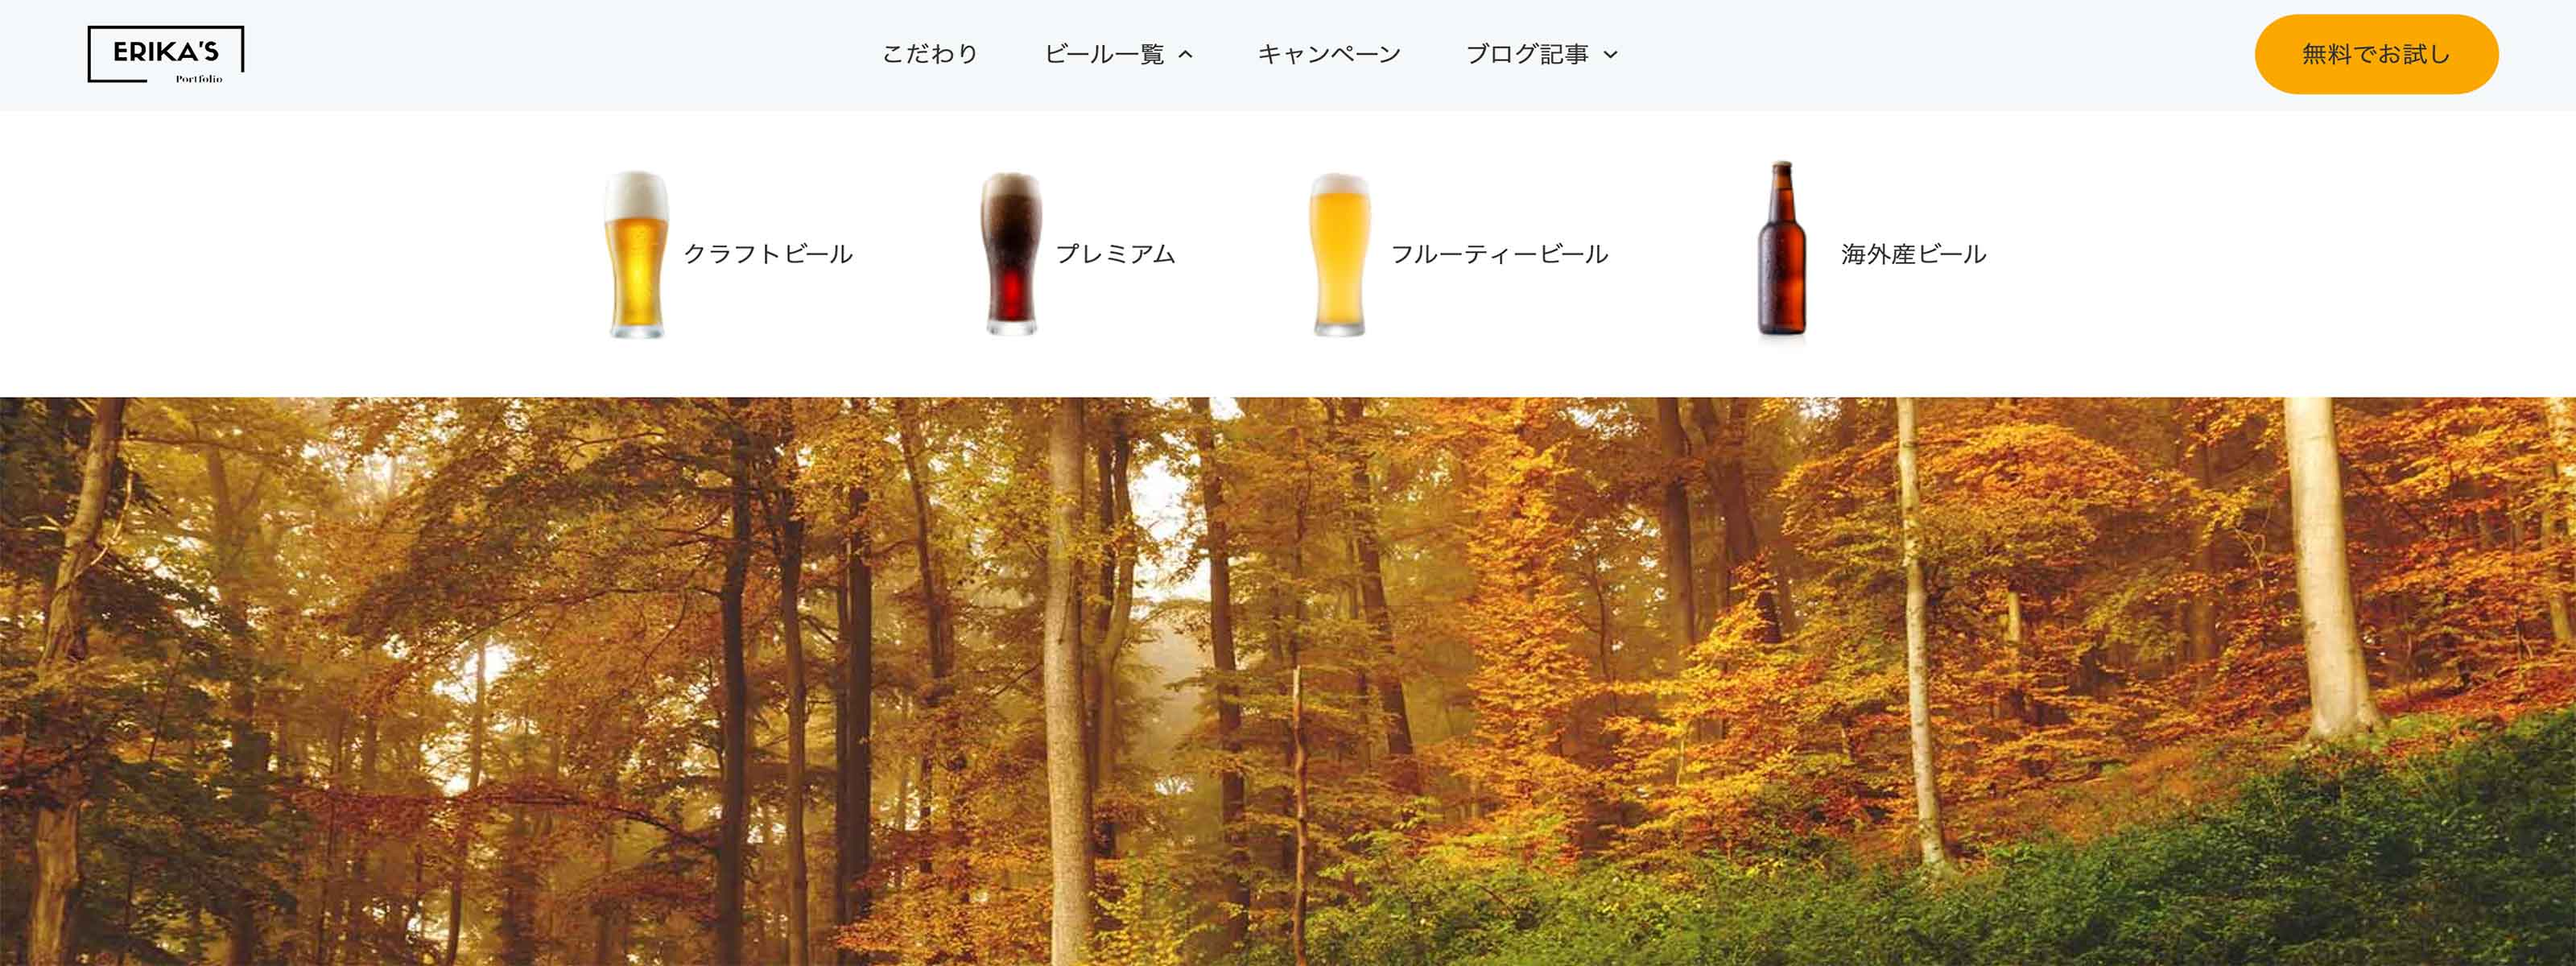
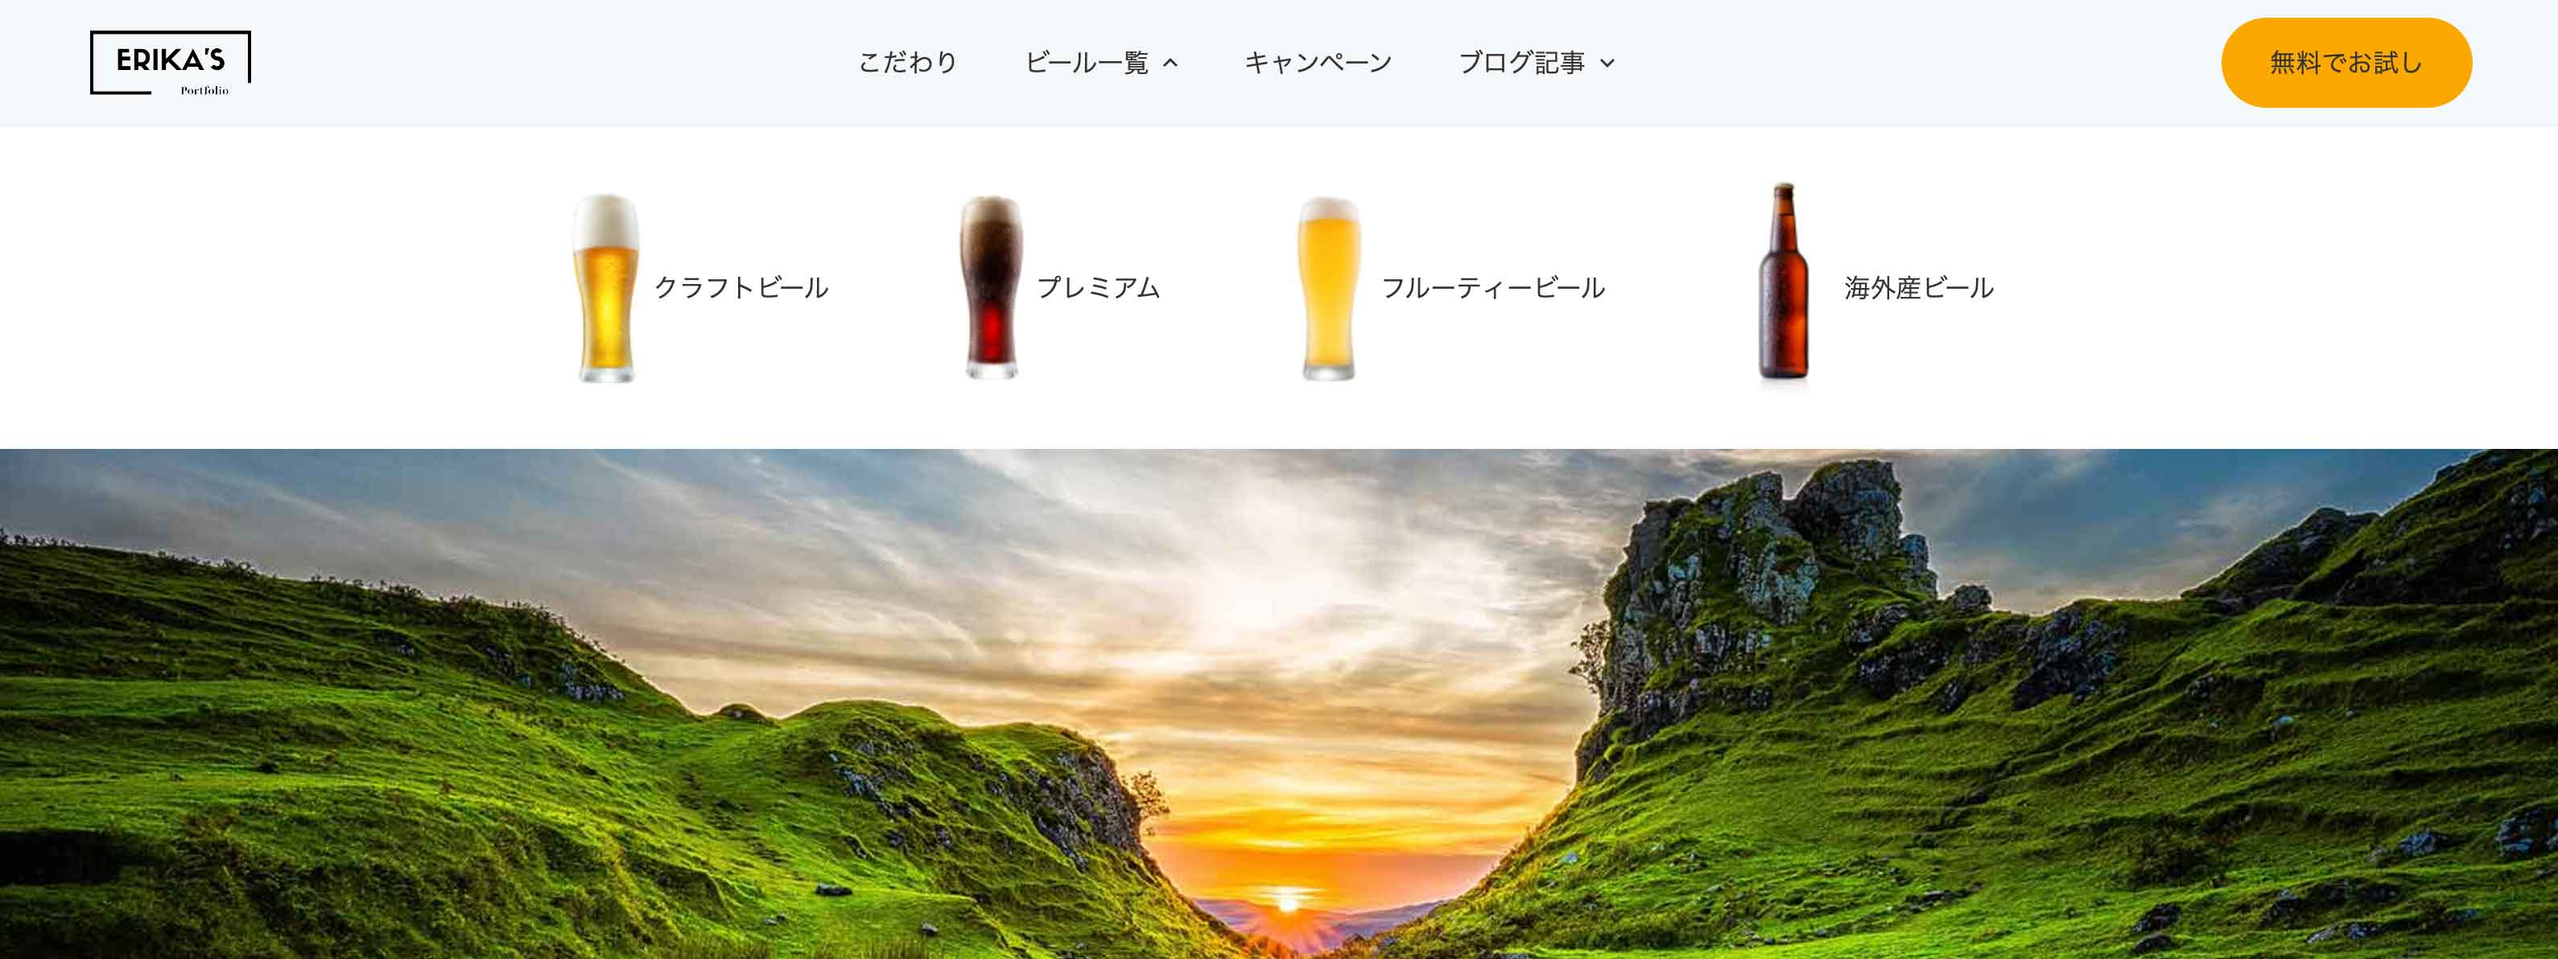
アップデート

diff --git a/header-4.html b/header-4.html
@@ -49,7 +49,7 @@
       <ul>
         <li><a href="#" target="blank" class="pc-nav-x-link"><img src="./img/project/logo-black.png" alt="Twitter"></a></li>
         <li><a href="#" target="_blank"><img src="./img/project/LINE.png" alt="LINE"></a></li>
-        <li class="pc-nav-button"><a class="button-donation" href="#">寄付のお願い</a></li>
+        <li class="pc-nav-button"><a class="button-donation" href="#">ログイン</a></li>
         <li class="pc-nav-button pc-nav-button-second"><a class="button-contact" href="#">お問い合わせ</a></li>
         <li class="hamburger-menu" id="js-hamburger">
           <span class="menu_top"></span>
@@ -62,17 +62,17 @@
 
   <div class="hamburger-menu-cont">
     <ul>
-      <li><a href="#">テキストホームとは</a></li>
-      <li><a href="#">テキストホーム一覧</a></li>
-      <li><a href="#">ホームでのお仕事</a></li>
-      <li><a href="#">ホームでの生活</a></li>
-      <li><a href="#">協議会について</a></li>
+      <li><a href="#">リサイクル会館</a></li>
+      <li><a href="#">リサイクル会館一覧</a></li>
+      <li><a href="#">会館でのお仕事</a></li>
+      <li><a href="#">エコな生活</a></li>
+      <li><a href="#">SDGsについて</a></li>
       <li><a href="#">会員専用ページ</a></li>
     </ul>
 
     <div class="hamburger-menu-cont-bottom">
       <div class="button">
-        <a href="#" class="button-donation">寄付のお願い</a>
+        <a href="#" class="button-donation">ログイン</a>
         <a href="#" class="button-contact">お問い合わせ</a>
       </div>
 
@@ -99,10 +99,10 @@
 <body>
 <div class="fv-wrapper fv-wrapper-one">
   <div class="fv-container">
-    <img src="./img/parts-header-01.jpg" alt="ファーストビュー画像">
+    <img src="./img/parts-header-04.jpg" alt="ファーストビュー画像">
   </div>
 </div>
-<main>
+<main class="header4-main">
   <section id="sec1" class="sec_wrapper">
     <div class="sec_container">
       <div class="secTitle-container">
@@ -240,11 +240,12 @@
   <div class="footer-container">
     <nav class="footer_nav">
       <ul class="footer-nav-list flex">
-        <li class="footer_nav-item"><a href="#">お知らせ</a></li>
-        <li class="footer_nav-item"><a href="#">サービス内容</a></li>
-        <li class="footer_nav-item"><a href="#">料金</a></li>
-        <li class="footer_nav-item"><a href="#">私たちについて</a></li>
-        <li class="footer_nav-item"><a href="#">お問い合わせ</a></li>
+        <li class="footer_nav-item"><a href="#">リサイクル会館</a></li>
+        <li class="footer_nav-item"><a href="#">リサイクル会館一覧</a></li>
+        <li class="footer_nav-item"><a href="#">会館でのお仕事</a></li>
+        <li class="footer_nav-item"><a href="#">エコな生活</a></li>
+        <li class="footer_nav-item"><a href="#">SDGsについて</a></li>
+        <li class="footer_nav-item"><a href="#">会員専用ページ</a></li>
       </ul>
     </nav>
     <p class="copyright">&copy; 20XX.テストテストテスト </p>

diff --git a/scss/header4.scss b/scss/header4.scss
@@ -156,7 +156,7 @@ header{
             top: 50%;
             transform: translateY(-50%);
             content: "";
-            background-image: url('../img/project/donation-icon.png');
+            background-image: url('../img/project/login-icon.png');
             background-repeat: no-repeat;
             background-size: contain;
             left: 15px;
@@ -227,7 +227,6 @@ header{
     justify-content: end;
     gap: 30px;
     padding: 0 40px;
-    margin-bottom: 50px;
     @include pc2{
         padding: 0 20px;
         justify-content: space-around;
@@ -285,7 +284,7 @@ header{
                 top: 50%;
                 transform: translateY(-50%);
                 content: "";
-                background-image: url('../img/project/donation-icon.png');
+                background-image: url('../img/project/login-icon.png');
                 background-repeat: no-repeat;
                 background-size: contain;
                 left: 15px;
@@ -345,6 +344,29 @@ header{
     width: 50%;
 }
 
+// メインビュースタイル
+.fv-container{
+    height: 500px;
+    width: 100%;
+    @include sp{
+        height: 600px;
+    }
+    img{
+        object-fit: cover;
+        width: 100%;
+        margin-top: 103px;
+        @include sp{
+            margin-top: 70px;
+            height: 100%;
+        }
+    }
+}
+.header4-main{
+    margin-top: 120px;
+    @include sp{
+        margin-top: 70px;
+    }
+}
 // インデックススタイル
 .parts-link{
     display: block;

diff --git a/css/header4.css b/css/header4.css
@@ -203,7 +203,7 @@ header {
   top: 50%;
   transform: translateY(-50%);
   content: "";
-  background-image: url("../img/project/donation-icon.png");
+  background-image: url("../img/project/login-icon.png");
   background-repeat: no-repeat;
   background-size: contain;
   left: 15px;
@@ -277,7 +277,6 @@ header {
   justify-content: end;
   gap: 30px;
   padding: 0 40px;
-  margin-bottom: 50px;
 }
 @media (max-width: 1026px) {
   .hamburger-menu-cont > ul {
@@ -348,7 +347,7 @@ header {
   top: 50%;
   transform: translateY(-50%);
   content: "";
-  background-image: url("../img/project/donation-icon.png");
+  background-image: url("../img/project/login-icon.png");
   background-repeat: no-repeat;
   background-size: contain;
   left: 15px;
@@ -405,6 +404,36 @@ header {
 
 .hamburger-menu-cont-bottom .sns li:last-child img {
   width: 50%;
+}
+
+.fv-container {
+  height: 500px;
+  width: 100%;
+}
+@media (max-width: 768px) {
+  .fv-container {
+    height: 600px;
+  }
+}
+.fv-container img {
+  object-fit: cover;
+  width: 100%;
+  margin-top: 103px;
+}
+@media (max-width: 768px) {
+  .fv-container img {
+    margin-top: 70px;
+    height: 100%;
+  }
+}
+
+.header4-main {
+  margin-top: 120px;
+}
+@media (max-width: 768px) {
+  .header4-main {
+    margin-top: 70px;
+  }
 }
 
 .parts-link {

diff --git a/header-3.html b/header-3.html
@@ -102,7 +102,7 @@
 <body>
 <div class="fv-wrapper fv-wrapper-one">
   <div class="fv-container">
-    <img src="./img/parts-header-01.jpg" alt="ファーストビュー画像">
+    <img src="./img/parts-header-03.jpg" alt="ファーストビュー画像">
   </div>
 </div>
 <main>
@@ -243,11 +243,10 @@
   <div class="footer-container">
     <nav class="footer_nav">
       <ul class="footer-nav-list flex">
-        <li class="footer_nav-item"><a href="#">お知らせ</a></li>
-        <li class="footer_nav-item"><a href="#">サービス内容</a></li>
-        <li class="footer_nav-item"><a href="#">料金</a></li>
-        <li class="footer_nav-item"><a href="#">私たちについて</a></li>
-        <li class="footer_nav-item"><a href="#">お問い合わせ</a></li>
+        <li class="footer_nav-item"><a href="#">こだわり</a></li>
+        <li class="footer_nav-item"><a href="#">ビール一覧</a></li>
+        <li class="footer_nav-item"><a href="#">キャンペーン</a></li>
+        <li class="footer_nav-item"><a href="#">ブログ記事</a></li>
       </ul>
     </nav>
     <p class="copyright">&copy; 20XX.テストテストテスト </p>

diff --git a/header-2.html b/header-2.html
@@ -263,11 +263,10 @@
   <div class="footer-container">
     <nav class="footer_nav">
       <ul class="footer-nav-list flex">
-        <li class="footer_nav-item"><a href="#">お知らせ</a></li>
-        <li class="footer_nav-item"><a href="#">サービス内容</a></li>
+        <li class="footer_nav-item"><a href="#">分類</a></li>
         <li class="footer_nav-item"><a href="#">料金</a></li>
-        <li class="footer_nav-item"><a href="#">私たちについて</a></li>
-        <li class="footer_nav-item"><a href="#">お問い合わせ</a></li>
+        <li class="footer_nav-item"><a href="#">アプリ＆統合</a></li>
+        <li class="footer_nav-item"><a href="#">資料</a></li>
       </ul>
     </nav>
     <p class="copyright">&copy; 20XX.テストテストテスト </p>

diff --git a/css/style.css b/css/style.css
@@ -1025,6 +1025,7 @@ p[class*=desc] {
 }
 .companyInfo-container .table-tr {
   display: block;
+  font-size: 1.6rem;
 }
 @media (max-width: 768px) {
   .companyInfo-container .table-tr {
@@ -1078,6 +1079,9 @@ p[class*=desc] {
 
 .footer_nav-item {
   padding: 0 20px;
+}
+.footer_nav-item a {
+  font-size: 1.6rem;
 }
 @media (max-width: 768px) {
   .footer_nav-item {

diff --git a/scss/style.scss b/scss/style.scss
@@ -208,6 +208,7 @@
     }
     .table-tr{
         display: block;
+        font-size: 1.6rem;
         @include sp{
             display: flex;
         }
@@ -253,6 +254,9 @@
 }
 .footer_nav-item{
     padding: 0 20px;
+    a{
+        font-size: 1.6rem;
+    }
     @include sp{
         padding: 10px 20px;
     }
